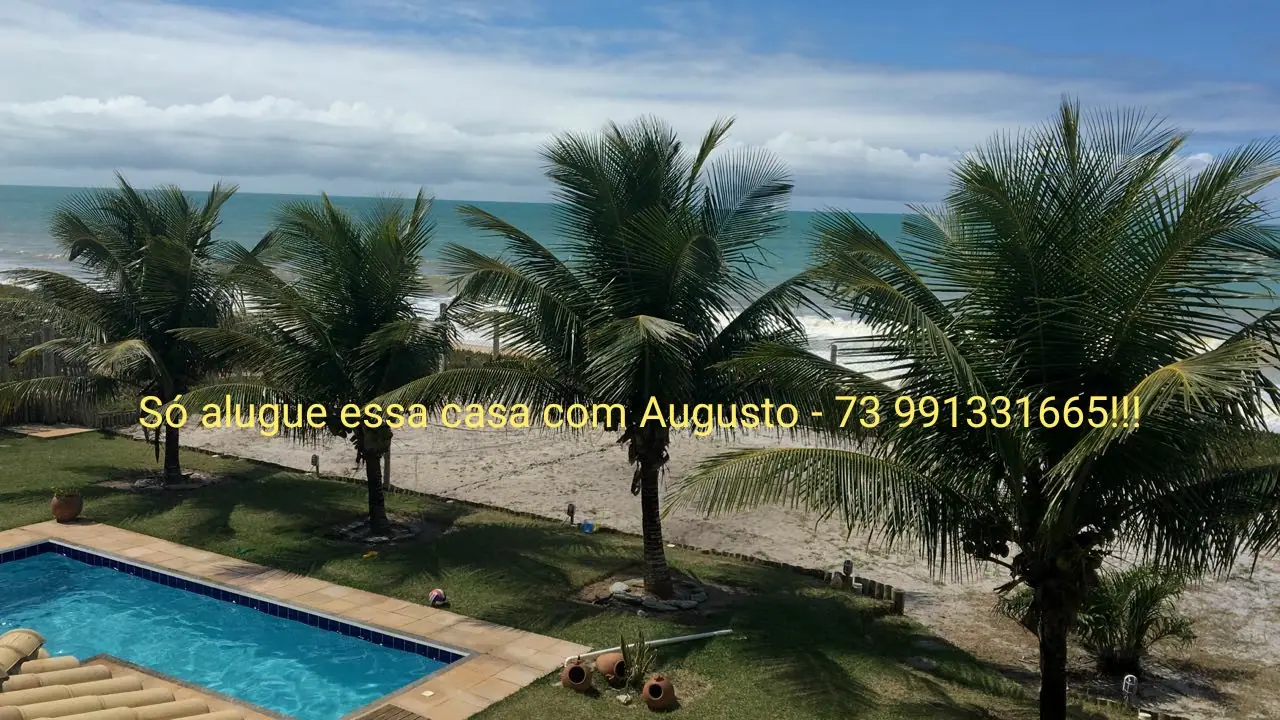
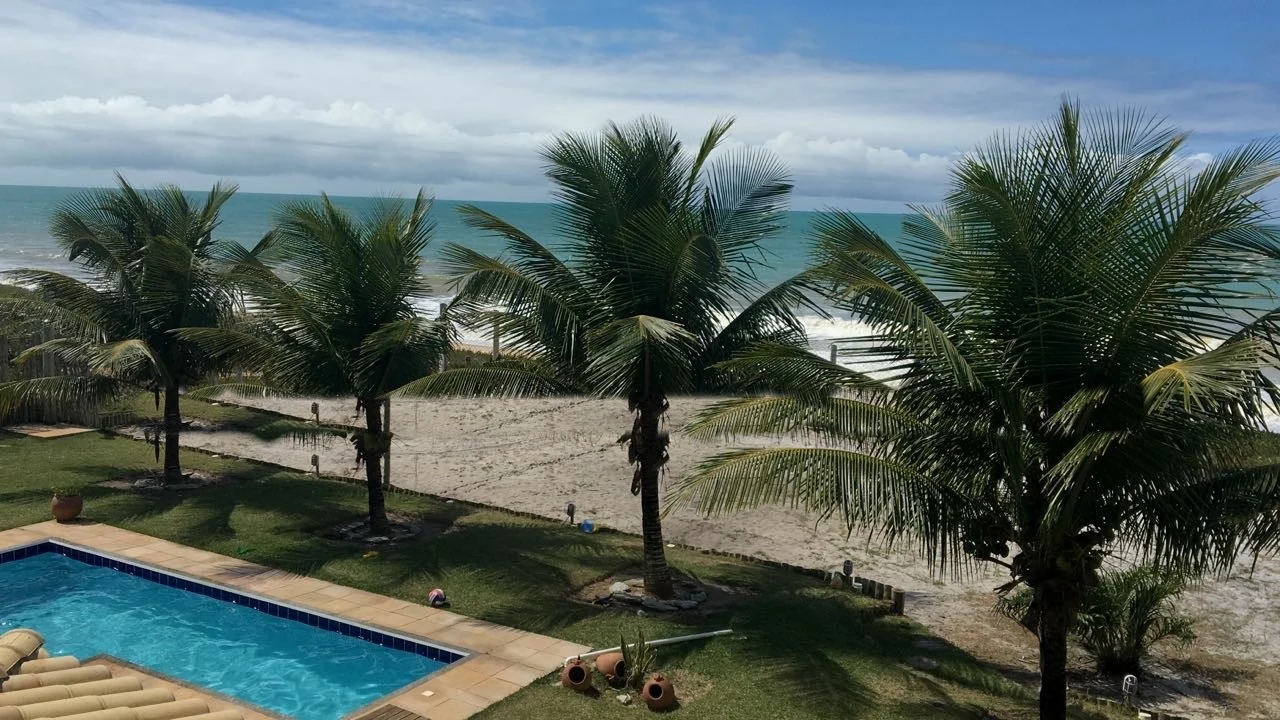
Casa Prado: capa da pé na areia com a foto escolhida pelo Augusto, sem a legenda
Claude-Session: https://claude.ai/code/session_019DD4Fyus8cYbBLTfuo8jed

Changed region(s): [[0.0938, 0.5194, 0.9062, 0.6417]]

diff --git a/casa-prado/index.html b/casa-prado/index.html
@@ -123,7 +123,8 @@ h2.big em{font-family:'Newsreader',serif;font-style:italic;font-weight:300;lette
 .qtxt{position:absolute;left:0;right:0;bottom:0;z-index:3;padding:clamp(14px,1.6vw,24px)}
 .qn{display:block;font-family:'Bricolage Grotesque',sans-serif;font-weight:700;font-size:clamp(18px,1.6vw,24px);letter-spacing:-.03em;line-height:1.05}
 .big .qn{font-size:clamp(30px,3.4vw,52px);letter-spacing:-.045em}
-.qc.big::after{background:linear-gradient(rgba(7,30,36,.25) 0%,rgba(7,30,36,0) 20%,rgba(7,30,36,0) 62%,rgba(7,30,36,.78) 100%)}
+.qc.big::after{background:linear-gradient(rgba(7,30,36,.22) 0%,rgba(7,30,36,0) 18%,rgba(7,30,36,0) 66%,rgba(7,30,36,.72) 100%)}
+.qc.big .qimg{top:-16%;bottom:0}
 .qb{display:block;font-family:'Newsreader',serif;font-style:italic;font-weight:300;font-size:15px;opacity:.9;margin-top:4px;line-height:1.35}
 .big .qb{font-size:clamp(15px,1.4vw,19px)}
 .qc:not(.big):not(.wide) .qb{display:none}
@@ -724,7 +725,7 @@ var ICO={
   car:'<svg width="19" height="19" viewBox="0 0 24 24" fill="none" stroke="currentColor" stroke-width="1.7"><path d="M4 16v-3l2-5h12l2 5v3"/><path d="M4 16h16v3h-3v-3M7 19H4z"/><circle cx="7.5" cy="16.5" r="1.3"/><circle cx="16.5" cy="16.5" r="1.3"/></svg>'
 };
 
-var CASAS=[{"slug": "segura-as-ondas", "nome": "Casa 7 quartos · Novo Prado", "tag": "Novo Prado · até 20 pessoas", "resumo": "A maior das quatro, no Novo Prado: sete quartos, seis banheiros e espaço para vinte pessoas.", "chips": ["7 quartos", "20 pessoas", "500 m da praia", "5 vagas"], "fatos": [["Quartos", "7"], ["Banheiros", "6"], ["Pessoas", "20"], ["Até a praia", "500 m"]], "itens": ["Piscina com área em volta", "Churrasqueira coberta", "Forno e fogão a lenha", "Ar-condicionado split nos 7 quartos", "Wi-Fi", "Geladeira e freezer", "Varanda com redes", "Garagem coberta para 5 carros", "Duchas para o banho de praia", "Quintal gramado"], "desc": "Casa térrea no bairro Novo Prado, que se abre toda para o quintal: de um lado a piscina, do outro a área coberta com churrasqueira, forno e fogão a lenha. São sete quartos (três suítes, duas demi-suítes e dois quartos) e seis banheiros, com espaço para vinte pessoas. Fica a 500 metros da praia Segura as Ondas e a 700 metros do centro.", "galtexto": "Da piscina aos quartos, na casa que recebe até vinte pessoas.", "fotos": [["fotos/01-piscina-casa.webp", "A piscina, com a casa ao fundo"], ["fotos/02-piscina-fachada.webp", "A piscina de frente para os quartos"], ["fotos/03-piscina-espreguicadeira.webp", "Espaço em volta da piscina"], ["fotos/04-churrasqueira-forno.webp", "Churrasqueira, forno a lenha e bancada"], ["fotos/05-varanda-gourmet.webp", "A varanda da área gourmet"], ["fotos/06-mesa-grande.webp", "Mesa grande para todo mundo sentar"], ["fotos/07-churrasqueira-mesa.webp", "A área da churrasqueira"], ["fotos/08-varanda-redes.webp", "Varanda com redes, de frente para o quintal"], ["fotos/09-quintal-piscina.webp", "Quintal e piscina"], ["fotos/10-area-coberta.webp", "Área coberta"], ["fotos/11-quintal.webp", "O gramado entre a casa e a área gourmet"], ["fotos/12-jardim.webp", "O jardim"], ["fotos/13-quintal-vista.webp", "O quintal visto da varanda"], ["fotos/14-garagem.webp", "Garagem coberta para cinco carros"], ["fotos/15-fachada.webp", "A frente da casa"], ["fotos/16-cozinha.webp", "A cozinha"], ["fotos/17-cozinha-pia.webp", "Cozinha equipada"], ["fotos/18-area-servico.webp", "Área de serviço"], ["fotos/19-quarto-suite.webp", "Uma das suítes"], ["fotos/20-quarto-casal.webp", "Quarto de casal com ar-condicionado"], ["fotos/21-quarto-solteiro.webp", "Quarto de solteiro"], ["fotos/22-quarto-duas-camas.webp", "Quarto com duas camas"], ["fotos/23-quarto.webp", "Quarto com ar-condicionado split"], ["fotos/24-banheiro.webp", "Um dos seis banheiros"], ["fotos/25-banheiro-2.webp", "Banheiro com box"], ["fotos/26-banheiro-3.webp", "Banheiro"]], "q": "7", "curto": "Novo Prado", "bairro": "Até 20 pessoas · 500 m da praia", "capa": "casas/capas/7-quartos.webp", "mos": "casas/capas/m7.webp", "mpos": "30% 60%"}, {"slug": "beira-mar", "nome": "Casa 6 quartos · Pé na areia", "tag": "Basevi · praia da Lagoa Pequena", "resumo": "Pé na areia na praia da Lagoa Pequena, no bairro Basevi, a 1,5 km do centro.", "chips": ["6 quartos", "3 suítes", "Pé na areia", "Piscina"], "fatos": [["Quartos", "6"], ["Suítes", "3"], ["Banheiros", "4 + lavabo"], ["Praia", "no fundo"]], "itens": ["Piscina", "Suítes de frente para a piscina", "2 quartos separados da casa, com banheiro", "Ar-condicionado split em todos os quartos", "Área gourmet com lavabo", "Cozinha equipada", "Varanda", "Pé na areia", "1,5 km do centro"], "desc": "Casa pé na areia na praia da Lagoa Pequena, no bairro Basevi, a 1.500 metros do centro do Prado. São seis quartos, todos com ar-condicionado split. As três suítes ficam de frente para a piscina, abrindo para a varanda, e dois quartos ficam numa construção separada da casa, com um banheiro na frente. São quatro banheiros no total, mais um lavabo na sala.", "galtexto": "A praia da Lagoa Pequena no fundo do quintal, a piscina na frente das suítes e a varanda com redes.", "fotos": [["casas/beira-mar/01-aerea-praia.webp", "A casa e a praia vistas de cima"], ["casas/beira-mar/02-piscina-mar.webp", "Piscina com o mar ao fundo"], ["casas/beira-mar/03-piscina-casa.webp", "Piscina com a casa ao fundo"], ["casas/beira-mar/04-piscina-casa-2.webp", "A casa vista da piscina"], ["casas/beira-mar/05-piscina-espreguicadeiras.webp", "Espreguiçadeiras na beira da piscina"], ["casas/beira-mar/06-piscina-coqueiros.webp", "Piscina entre os coqueiros"], ["casas/beira-mar/07-piscina-gramado.webp", "Piscina e gramado"], ["casas/beira-mar/08-piscina-borda.webp", "Borda da piscina"], ["casas/beira-mar/09-casa-piscina.webp", "A casa e a piscina"], ["casas/beira-mar/10-fachada.webp", "A frente da casa"], ["casas/beira-mar/11-fachada-2.webp", "A casa vista de fora"], ["casas/beira-mar/12-fachada-lateral.webp", "A casa pela lateral"], ["casas/beira-mar/13-varanda-mar.webp", "Varanda de frente para o mar"], ["casas/beira-mar/14-varanda-vista.webp", "Vista da varanda"], ["casas/beira-mar/15-pergolado.webp", "Pergolado no quintal"], ["casas/beira-mar/16-mesa-varanda.webp", "Mesa e cadeiras na varanda"], ["casas/beira-mar/17-casa-pergolado.webp", "A casa e o pergolado"], ["casas/beira-mar/18-casa-frente.webp", "A frente da casa, da rua"], ["casas/beira-mar/19-rede-varanda.webp", "Rede na varanda"], ["casas/beira-mar/20-lateral.webp", "Lateral da casa"], ["casas/beira-mar/21-entrada.webp", "Entrada da casa"], ["casas/beira-mar/22-varanda-piscina.webp", "Varanda de frente para a piscina"], ["casas/beira-mar/23-terreno-praia.webp", "O terreno aberto para a praia"], ["casas/beira-mar/24-praia.webp", "A praia em frente à casa"], ["casas/beira-mar/25-cozinha-sala.webp", "Cozinha e sala integradas"], ["casas/beira-mar/26-cozinha.webp", "Cozinha"], ["casas/beira-mar/27-sala-tv.webp", "Sala de TV"], ["casas/beira-mar/28-sala-mesa.webp", "Sala com mesa de jantar"]], "q": "6", "curto": "Pé na areia", "bairro": "Basevi · praia da Lagoa Pequena", "capa": "casas/capas/pe-na-areia.webp", "mos": "casas/capas/m6.webp", "mpos": "32% 50%"}, {"slug": "beco-garrafas", "nome": "Casa 5 quartos · Centro do Prado", "tag": "Centro · 50 m da praia", "resumo": "No centro do Prado, a cinquenta metros da praia e do Beco das Garrafas.", "chips": ["5 quartos", "4 suítes", "50 m da praia", "Piscina"], "fatos": [["Quartos", "5"], ["Suítes", "4"], ["Banheiros", "5 + lavabo"], ["Até a praia", "50 m"]], "itens": ["Piscina", "Ar-condicionado split em todos os quartos", "Área gourmet com lavabo", "Cozinha equipada", "Varanda", "50 m da praia", "50 m do Beco das Garrafas"], "desc": "Casa no centro do Prado, a cinquenta metros da praia e do Beco das Garrafas, com a praia no fundo da casa. São cinco quartos, todos com ar-condicionado split, sendo quatro suítes, cinco banheiros no total e mais um lavabo na área gourmet. Dá para fazer tudo a pé: praia, praça, bares e os melhores restaurantes do Prado.", "galtexto": "Piscina, área gourmet e um corredor de pedra entre a casa e o quintal, a cinquenta metros do mar.", "fotos": [["casas/beco-garrafas/01-fachada-piscina.webp", "A fachada vista da piscina"], ["casas/beco-garrafas/02-piscina-gramado.webp", "Piscina e gramado"], ["casas/beco-garrafas/03-piscina-area.webp", "Área em volta da piscina"], ["casas/beco-garrafas/04-piscina-lateral.webp", "Piscina pela lateral da casa"], ["casas/beco-garrafas/05-piscina-deck.webp", "Piscina e deck de pedra"], ["casas/beco-garrafas/06-piscina-varanda.webp", "Piscina vista da varanda"], ["casas/beco-garrafas/07-piscina-quintal.webp", "Piscina no quintal"], ["casas/beco-garrafas/08-fachada-jardim.webp", "A fachada e o jardim"], ["casas/beco-garrafas/09-fachada.webp", "A frente da casa"], ["casas/beco-garrafas/10-casa-quintal.webp", "A casa vista do quintal"], ["casas/beco-garrafas/11-entrada.webp", "Entrada da casa"], ["casas/beco-garrafas/12-rua.webp", "A casa vista da rua"], ["casas/beco-garrafas/13-lateral.webp", "Lateral da casa"], ["casas/beco-garrafas/14-corredor-lateral.webp", "Corredor lateral coberto"], ["casas/beco-garrafas/15-area-coberta.webp", "Área coberta ao lado da casa"], ["casas/beco-garrafas/16-pergolado.webp", "Pergolado no quintal"], ["casas/beco-garrafas/17-area-gourmet-mesa.webp", "Área gourmet com mesa de madeira"], ["casas/beco-garrafas/18-area-gourmet.webp", "Área gourmet"], ["casas/beco-garrafas/19-mesa-grande.webp", "Mesa grande de madeira na área gourmet"], ["casas/beco-garrafas/20-churrasqueira.webp", "Churrasqueira da área gourmet"], ["casas/beco-garrafas/21-sala-jantar.webp", "Sala de jantar"], ["casas/beco-garrafas/22-sala-jantar-2.webp", "Mesa de jantar"], ["casas/beco-garrafas/23-sala-tv.webp", "Sala de TV"], ["casas/beco-garrafas/24-sala-estar.webp", "Sala de estar"], ["casas/beco-garrafas/25-cozinha.webp", "Cozinha"], ["casas/beco-garrafas/26-varanda-mesa.webp", "Mesa na varanda"], ["casas/beco-garrafas/27-varanda.webp", "Varanda da casa"], ["casas/beco-garrafas/28-varanda-piso.webp", "Varanda e piso de pedra"], ["casas/beco-garrafas/29-quarto-1.webp", "Quarto com ar-condicionado split"], ["casas/beco-garrafas/30-quarto-2.webp", "Quarto com ar-condicionado split"], ["casas/beco-garrafas/31-quarto-3.webp", "Quarto com ar-condicionado split"], ["casas/beco-garrafas/32-quarto-4.webp", "Quarto com ar-condicionado split"], ["casas/beco-garrafas/33-quarto-5.webp", "Quarto com ar-condicionado split"], ["casas/beco-garrafas/34-banheiro-1.webp", "Banheiro da casa"], ["casas/beco-garrafas/35-banheiro-2.webp", "Banheiro da casa"], ["casas/beco-garrafas/36-banheiro-3.webp", "Banheiro da casa"]], "q": "5", "curto": "Centro do Prado", "bairro": "50 m da praia e do Beco das Garrafas", "capa": "casas/capas/5-quartos.webp", "mos": "casas/capas/m5.webp", "mpos": "40% 60%"}, {"slug": "novo-prado", "nome": "Casa 4 quartos · Novo Prado", "tag": "Novo Prado · 400 m da praia", "resumo": "No bairro Novo Prado, a quatro minutos a pé da praia Segura as Ondas.", "chips": ["4 quartos", "3 suítes", "400 m da praia", "Piscina"], "fatos": [["Quartos", "4"], ["Suítes", "3"], ["Banheiros", "4 + lavabo"], ["Até a praia", "400 m"]], "itens": ["Piscina", "Ar-condicionado split em todos os quartos", "Área gourmet com lavabo", "Cozinha equipada", "Varanda com redes", "400 m da praia", "600 m do centro"], "desc": "Casa no bairro Novo Prado, a 400 metros da praia Segura as Ondas e a 600 metros do centro. São quatro quartos, todos com ar-condicionado split, sendo três suítes, quatro banheiros no total e mais um lavabo na área gourmet.", "galtexto": "Piscina com cascata, área gourmet de mesa grande e quatro quartos em bairro tranquilo.", "fotos": [["casas/novo-prado/01-piscina-cascata.webp", "Piscina com cascata no quintal"], ["casas/novo-prado/02-piscina-espreguicadeira.webp", "Piscina e espreguiçadeira"], ["casas/novo-prado/03-piscina-area.webp", "Área em volta da piscina"], ["casas/novo-prado/04-piscina-coqueiros.webp", "Piscina entre os coqueiros"], ["casas/novo-prado/05-piscina-varanda.webp", "Piscina vista da varanda"], ["casas/novo-prado/06-piscina-palmeira.webp", "Piscina e palmeira no quintal"], ["casas/novo-prado/07-espreguicadeira.webp", "Espreguiçadeira ao lado da piscina"], ["casas/novo-prado/08-quintal-piscina.webp", "Quintal e piscina"], ["casas/novo-prado/09-jardim.webp", "Jardim com árvore no quintal"], ["casas/novo-prado/10-varanda-redes.webp", "Varanda com redes"], ["casas/novo-prado/11-mesa-grande.webp", "Mesa grande de madeira na área gourmet"], ["casas/novo-prado/12-area-gourmet.webp", "Área gourmet"], ["casas/novo-prado/13-area-gourmet-2.webp", "A área gourmet por outro ângulo"], ["casas/novo-prado/14-sala-tv.webp", "Sala de TV"], ["casas/novo-prado/15-sala-estar.webp", "Sala de estar"], ["casas/novo-prado/16-cozinha.webp", "Cozinha"], ["casas/novo-prado/17-quarto-1.webp", "Quarto com ar-condicionado split"], ["casas/novo-prado/18-quarto-2.webp", "Quarto com ar-condicionado split"], ["casas/novo-prado/19-quarto-3.webp", "Quarto com ar-condicionado split"], ["casas/novo-prado/20-quarto-4.webp", "Quarto com ar-condicionado split"], ["casas/novo-prado/21-quarto-5.webp", "Quarto com ar-condicionado split"], ["casas/novo-prado/22-quarto-6.webp", "Quarto com ar-condicionado split"], ["casas/novo-prado/23-quarto-7.webp", "Quarto com ar-condicionado split"], ["casas/novo-prado/24-quarto-8.webp", "Quarto com ar-condicionado split"], ["casas/novo-prado/25-corredor.webp", "Corredor interno"], ["casas/novo-prado/26-banheiro-1.webp", "Banheiro da casa"], ["casas/novo-prado/27-banheiro-2.webp", "Banheiro da casa"], ["casas/novo-prado/28-banheiro-3.webp", "Banheiro da casa"], ["casas/novo-prado/29-banheiro-4.webp", "Banheiro da casa"]], "q": "4", "curto": "Novo Prado", "bairro": "400 m da praia · 600 m do centro", "capa": "casas/capas/4-quartos.webp", "mos": "casas/capas/m4.webp", "mpos": "62% 60%"}];
+var CASAS=[{"slug": "segura-as-ondas", "nome": "Casa 7 quartos · Novo Prado", "tag": "Novo Prado · até 20 pessoas", "resumo": "A maior das quatro, no Novo Prado: sete quartos, seis banheiros e espaço para vinte pessoas.", "chips": ["7 quartos", "20 pessoas", "500 m da praia", "5 vagas"], "fatos": [["Quartos", "7"], ["Banheiros", "6"], ["Pessoas", "20"], ["Até a praia", "500 m"]], "itens": ["Piscina com área em volta", "Churrasqueira coberta", "Forno e fogão a lenha", "Ar-condicionado split nos 7 quartos", "Wi-Fi", "Geladeira e freezer", "Varanda com redes", "Garagem coberta para 5 carros", "Duchas para o banho de praia", "Quintal gramado"], "desc": "Casa térrea no bairro Novo Prado, que se abre toda para o quintal: de um lado a piscina, do outro a área coberta com churrasqueira, forno e fogão a lenha. São sete quartos (três suítes, duas demi-suítes e dois quartos) e seis banheiros, com espaço para vinte pessoas. Fica a 500 metros da praia Segura as Ondas e a 700 metros do centro.", "galtexto": "Da piscina aos quartos, na casa que recebe até vinte pessoas.", "fotos": [["fotos/01-piscina-casa.webp", "A piscina, com a casa ao fundo"], ["fotos/02-piscina-fachada.webp", "A piscina de frente para os quartos"], ["fotos/03-piscina-espreguicadeira.webp", "Espaço em volta da piscina"], ["fotos/04-churrasqueira-forno.webp", "Churrasqueira, forno a lenha e bancada"], ["fotos/05-varanda-gourmet.webp", "A varanda da área gourmet"], ["fotos/06-mesa-grande.webp", "Mesa grande para todo mundo sentar"], ["fotos/07-churrasqueira-mesa.webp", "A área da churrasqueira"], ["fotos/08-varanda-redes.webp", "Varanda com redes, de frente para o quintal"], ["fotos/09-quintal-piscina.webp", "Quintal e piscina"], ["fotos/10-area-coberta.webp", "Área coberta"], ["fotos/11-quintal.webp", "O gramado entre a casa e a área gourmet"], ["fotos/12-jardim.webp", "O jardim"], ["fotos/13-quintal-vista.webp", "O quintal visto da varanda"], ["fotos/14-garagem.webp", "Garagem coberta para cinco carros"], ["fotos/15-fachada.webp", "A frente da casa"], ["fotos/16-cozinha.webp", "A cozinha"], ["fotos/17-cozinha-pia.webp", "Cozinha equipada"], ["fotos/18-area-servico.webp", "Área de serviço"], ["fotos/19-quarto-suite.webp", "Uma das suítes"], ["fotos/20-quarto-casal.webp", "Quarto de casal com ar-condicionado"], ["fotos/21-quarto-solteiro.webp", "Quarto de solteiro"], ["fotos/22-quarto-duas-camas.webp", "Quarto com duas camas"], ["fotos/23-quarto.webp", "Quarto com ar-condicionado split"], ["fotos/24-banheiro.webp", "Um dos seis banheiros"], ["fotos/25-banheiro-2.webp", "Banheiro com box"], ["fotos/26-banheiro-3.webp", "Banheiro"]], "q": "7", "curto": "Novo Prado", "bairro": "Até 20 pessoas · 500 m da praia", "capa": "casas/capas/7-quartos.webp", "mos": "casas/capas/m7.webp", "mpos": "30% 60%"}, {"slug": "beira-mar", "nome": "Casa 6 quartos · Pé na areia", "tag": "Basevi · praia da Lagoa Pequena", "resumo": "Pé na areia na praia da Lagoa Pequena, no bairro Basevi, a 1,5 km do centro.", "chips": ["6 quartos", "3 suítes", "Pé na areia", "Piscina"], "fatos": [["Quartos", "6"], ["Suítes", "3"], ["Banheiros", "4 + lavabo"], ["Praia", "no fundo"]], "itens": ["Piscina", "Suítes de frente para a piscina", "2 quartos separados da casa, com banheiro", "Ar-condicionado split em todos os quartos", "Área gourmet com lavabo", "Cozinha equipada", "Varanda", "Pé na areia", "1,5 km do centro"], "desc": "Casa pé na areia na praia da Lagoa Pequena, no bairro Basevi, a 1.500 metros do centro do Prado. São seis quartos, todos com ar-condicionado split. As três suítes ficam de frente para a piscina, abrindo para a varanda, e dois quartos ficam numa construção separada da casa, com um banheiro na frente. São quatro banheiros no total, mais um lavabo na sala.", "galtexto": "A praia da Lagoa Pequena no fundo do quintal, a piscina na frente das suítes e a varanda com redes.", "fotos": [["casas/beira-mar/01-aerea-praia.webp", "A casa e a praia vistas de cima"], ["casas/beira-mar/02-piscina-mar.webp", "Piscina com o mar ao fundo"], ["casas/beira-mar/03-piscina-casa.webp", "Piscina com a casa ao fundo"], ["casas/beira-mar/04-piscina-casa-2.webp", "A casa vista da piscina"], ["casas/beira-mar/05-piscina-espreguicadeiras.webp", "Espreguiçadeiras na beira da piscina"], ["casas/beira-mar/06-piscina-coqueiros.webp", "Piscina entre os coqueiros"], ["casas/beira-mar/07-piscina-gramado.webp", "Piscina e gramado"], ["casas/beira-mar/08-piscina-borda.webp", "Borda da piscina"], ["casas/beira-mar/09-casa-piscina.webp", "A casa e a piscina"], ["casas/beira-mar/10-fachada.webp", "A frente da casa"], ["casas/beira-mar/11-fachada-2.webp", "A casa vista de fora"], ["casas/beira-mar/12-fachada-lateral.webp", "A casa pela lateral"], ["casas/beira-mar/13-varanda-mar.webp", "Varanda de frente para o mar"], ["casas/beira-mar/14-varanda-vista.webp", "Vista da varanda"], ["casas/beira-mar/15-pergolado.webp", "Pergolado no quintal"], ["casas/beira-mar/16-mesa-varanda.webp", "Mesa e cadeiras na varanda"], ["casas/beira-mar/17-casa-pergolado.webp", "A casa e o pergolado"], ["casas/beira-mar/18-casa-frente.webp", "A frente da casa, da rua"], ["casas/beira-mar/19-rede-varanda.webp", "Rede na varanda"], ["casas/beira-mar/20-lateral.webp", "Lateral da casa"], ["casas/beira-mar/21-entrada.webp", "Entrada da casa"], ["casas/beira-mar/22-varanda-piscina.webp", "Varanda de frente para a piscina"], ["casas/beira-mar/23-terreno-praia.webp", "O terreno aberto para a praia"], ["casas/beira-mar/24-praia.webp", "A praia em frente à casa"], ["casas/beira-mar/25-cozinha-sala.webp", "Cozinha e sala integradas"], ["casas/beira-mar/26-cozinha.webp", "Cozinha"], ["casas/beira-mar/27-sala-tv.webp", "Sala de TV"], ["casas/beira-mar/28-sala-mesa.webp", "Sala com mesa de jantar"]], "q": "6", "curto": "Pé na areia", "bairro": "Basevi · praia da Lagoa Pequena", "capa": "casas/capas/pe-na-areia.webp", "mos": "casas/capas/m6.webp", "mpos": "18% 100%"}, {"slug": "beco-garrafas", "nome": "Casa 5 quartos · Centro do Prado", "tag": "Centro · 50 m da praia", "resumo": "No centro do Prado, a cinquenta metros da praia e do Beco das Garrafas.", "chips": ["5 quartos", "4 suítes", "50 m da praia", "Piscina"], "fatos": [["Quartos", "5"], ["Suítes", "4"], ["Banheiros", "5 + lavabo"], ["Até a praia", "50 m"]], "itens": ["Piscina", "Ar-condicionado split em todos os quartos", "Área gourmet com lavabo", "Cozinha equipada", "Varanda", "50 m da praia", "50 m do Beco das Garrafas"], "desc": "Casa no centro do Prado, a cinquenta metros da praia e do Beco das Garrafas, com a praia no fundo da casa. São cinco quartos, todos com ar-condicionado split, sendo quatro suítes, cinco banheiros no total e mais um lavabo na área gourmet. Dá para fazer tudo a pé: praia, praça, bares e os melhores restaurantes do Prado.", "galtexto": "Piscina, área gourmet e um corredor de pedra entre a casa e o quintal, a cinquenta metros do mar.", "fotos": [["casas/beco-garrafas/01-fachada-piscina.webp", "A fachada vista da piscina"], ["casas/beco-garrafas/02-piscina-gramado.webp", "Piscina e gramado"], ["casas/beco-garrafas/03-piscina-area.webp", "Área em volta da piscina"], ["casas/beco-garrafas/04-piscina-lateral.webp", "Piscina pela lateral da casa"], ["casas/beco-garrafas/05-piscina-deck.webp", "Piscina e deck de pedra"], ["casas/beco-garrafas/06-piscina-varanda.webp", "Piscina vista da varanda"], ["casas/beco-garrafas/07-piscina-quintal.webp", "Piscina no quintal"], ["casas/beco-garrafas/08-fachada-jardim.webp", "A fachada e o jardim"], ["casas/beco-garrafas/09-fachada.webp", "A frente da casa"], ["casas/beco-garrafas/10-casa-quintal.webp", "A casa vista do quintal"], ["casas/beco-garrafas/11-entrada.webp", "Entrada da casa"], ["casas/beco-garrafas/12-rua.webp", "A casa vista da rua"], ["casas/beco-garrafas/13-lateral.webp", "Lateral da casa"], ["casas/beco-garrafas/14-corredor-lateral.webp", "Corredor lateral coberto"], ["casas/beco-garrafas/15-area-coberta.webp", "Área coberta ao lado da casa"], ["casas/beco-garrafas/16-pergolado.webp", "Pergolado no quintal"], ["casas/beco-garrafas/17-area-gourmet-mesa.webp", "Área gourmet com mesa de madeira"], ["casas/beco-garrafas/18-area-gourmet.webp", "Área gourmet"], ["casas/beco-garrafas/19-mesa-grande.webp", "Mesa grande de madeira na área gourmet"], ["casas/beco-garrafas/20-churrasqueira.webp", "Churrasqueira da área gourmet"], ["casas/beco-garrafas/21-sala-jantar.webp", "Sala de jantar"], ["casas/beco-garrafas/22-sala-jantar-2.webp", "Mesa de jantar"], ["casas/beco-garrafas/23-sala-tv.webp", "Sala de TV"], ["casas/beco-garrafas/24-sala-estar.webp", "Sala de estar"], ["casas/beco-garrafas/25-cozinha.webp", "Cozinha"], ["casas/beco-garrafas/26-varanda-mesa.webp", "Mesa na varanda"], ["casas/beco-garrafas/27-varanda.webp", "Varanda da casa"], ["casas/beco-garrafas/28-varanda-piso.webp", "Varanda e piso de pedra"], ["casas/beco-garrafas/29-quarto-1.webp", "Quarto com ar-condicionado split"], ["casas/beco-garrafas/30-quarto-2.webp", "Quarto com ar-condicionado split"], ["casas/beco-garrafas/31-quarto-3.webp", "Quarto com ar-condicionado split"], ["casas/beco-garrafas/32-quarto-4.webp", "Quarto com ar-condicionado split"], ["casas/beco-garrafas/33-quarto-5.webp", "Quarto com ar-condicionado split"], ["casas/beco-garrafas/34-banheiro-1.webp", "Banheiro da casa"], ["casas/beco-garrafas/35-banheiro-2.webp", "Banheiro da casa"], ["casas/beco-garrafas/36-banheiro-3.webp", "Banheiro da casa"]], "q": "5", "curto": "Centro do Prado", "bairro": "50 m da praia e do Beco das Garrafas", "capa": "casas/capas/5-quartos.webp", "mos": "casas/capas/m5.webp", "mpos": "40% 60%"}, {"slug": "novo-prado", "nome": "Casa 4 quartos · Novo Prado", "tag": "Novo Prado · 400 m da praia", "resumo": "No bairro Novo Prado, a quatro minutos a pé da praia Segura as Ondas.", "chips": ["4 quartos", "3 suítes", "400 m da praia", "Piscina"], "fatos": [["Quartos", "4"], ["Suítes", "3"], ["Banheiros", "4 + lavabo"], ["Até a praia", "400 m"]], "itens": ["Piscina", "Ar-condicionado split em todos os quartos", "Área gourmet com lavabo", "Cozinha equipada", "Varanda com redes", "400 m da praia", "600 m do centro"], "desc": "Casa no bairro Novo Prado, a 400 metros da praia Segura as Ondas e a 600 metros do centro. São quatro quartos, todos com ar-condicionado split, sendo três suítes, quatro banheiros no total e mais um lavabo na área gourmet.", "galtexto": "Piscina com cascata, área gourmet de mesa grande e quatro quartos em bairro tranquilo.", "fotos": [["casas/novo-prado/01-piscina-cascata.webp", "Piscina com cascata no quintal"], ["casas/novo-prado/02-piscina-espreguicadeira.webp", "Piscina e espreguiçadeira"], ["casas/novo-prado/03-piscina-area.webp", "Área em volta da piscina"], ["casas/novo-prado/04-piscina-coqueiros.webp", "Piscina entre os coqueiros"], ["casas/novo-prado/05-piscina-varanda.webp", "Piscina vista da varanda"], ["casas/novo-prado/06-piscina-palmeira.webp", "Piscina e palmeira no quintal"], ["casas/novo-prado/07-espreguicadeira.webp", "Espreguiçadeira ao lado da piscina"], ["casas/novo-prado/08-quintal-piscina.webp", "Quintal e piscina"], ["casas/novo-prado/09-jardim.webp", "Jardim com árvore no quintal"], ["casas/novo-prado/10-varanda-redes.webp", "Varanda com redes"], ["casas/novo-prado/11-mesa-grande.webp", "Mesa grande de madeira na área gourmet"], ["casas/novo-prado/12-area-gourmet.webp", "Área gourmet"], ["casas/novo-prado/13-area-gourmet-2.webp", "A área gourmet por outro ângulo"], ["casas/novo-prado/14-sala-tv.webp", "Sala de TV"], ["casas/novo-prado/15-sala-estar.webp", "Sala de estar"], ["casas/novo-prado/16-cozinha.webp", "Cozinha"], ["casas/novo-prado/17-quarto-1.webp", "Quarto com ar-condicionado split"], ["casas/novo-prado/18-quarto-2.webp", "Quarto com ar-condicionado split"], ["casas/novo-prado/19-quarto-3.webp", "Quarto com ar-condicionado split"], ["casas/novo-prado/20-quarto-4.webp", "Quarto com ar-condicionado split"], ["casas/novo-prado/21-quarto-5.webp", "Quarto com ar-condicionado split"], ["casas/novo-prado/22-quarto-6.webp", "Quarto com ar-condicionado split"], ["casas/novo-prado/23-quarto-7.webp", "Quarto com ar-condicionado split"], ["casas/novo-prado/24-quarto-8.webp", "Quarto com ar-condicionado split"], ["casas/novo-prado/25-corredor.webp", "Corredor interno"], ["casas/novo-prado/26-banheiro-1.webp", "Banheiro da casa"], ["casas/novo-prado/27-banheiro-2.webp", "Banheiro da casa"], ["casas/novo-prado/28-banheiro-3.webp", "Banheiro da casa"], ["casas/novo-prado/29-banheiro-4.webp", "Banheiro da casa"]], "q": "4", "curto": "Novo Prado", "bairro": "400 m da praia · 600 m do centro", "capa": "casas/capas/4-quartos.webp", "mos": "casas/capas/m4.webp", "mpos": "62% 60%"}];
 
 var AMEN=[
  {i:'pool',t:'Piscina em todas'},
